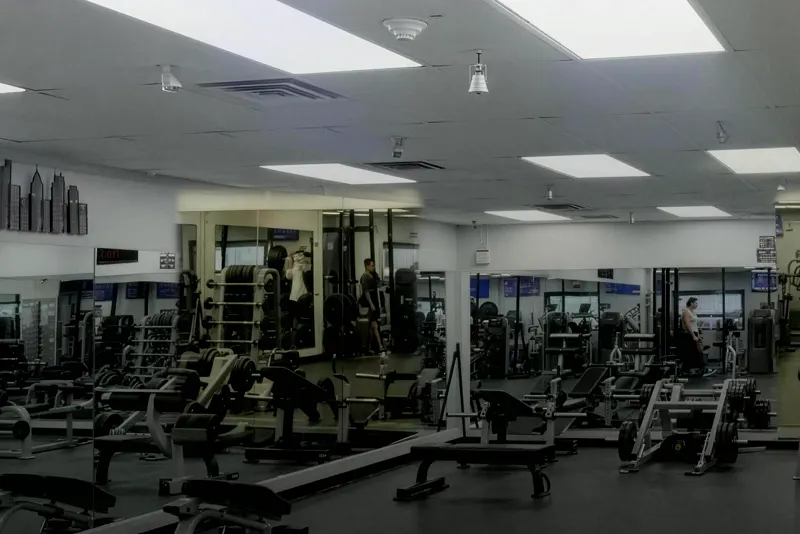
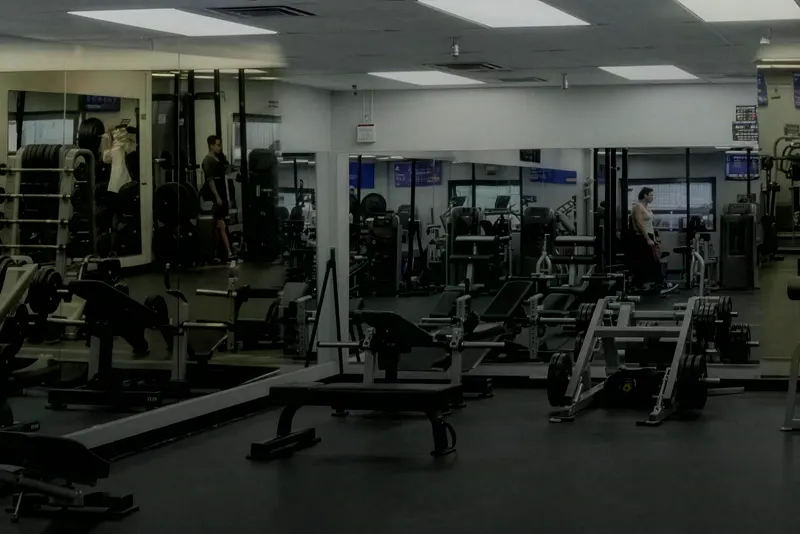
Replace the chapter 04 photo — the photographer was in a second mirror
The free-weight wide had him reflected in TWO mirrors, not one. Cropping
around the first put the second in frame. Four repair attempts on one
photograph is the signal to change photograph, so chapter 04 is now P004,
the dumbbell rack down the mirror wall — clean per the reflection sweep,
cropped 3:2 through its strongest band. P093 takes its place in the strip.

diff --git a/index.html b/index.html
@@ -18,7 +18,7 @@
 
 <meta property="og:description" content="Norman's neighborhood gym. Open every hour of every day. 1610 W Lindsey St · (405) 801-2929">
 
-<meta property="og:image" content="img/og.jpg?v=20260904d">
+<meta property="og:image" content="img/og.jpg?v=20260904e">
 
 <meta property="og:type" content="website">
 
@@ -42,11 +42,11 @@
 
 <link rel="stylesheet" href="https://fonts.googleapis.com/css2?family=Fjalla+One&family=Source+Sans+Pro:wght@400;600&display=swap">
 
-<link rel="stylesheet" href="css/site.css?v=20260904d">
+<link rel="stylesheet" href="css/site.css?v=20260904e">
 
-<link rel="preload" as="image" href="media/open_1920.webp?v=20260904d" fetchpriority="high" media="(min-width: 900px)">
+<link rel="preload" as="image" href="media/open_1920.webp?v=20260904e" fetchpriority="high" media="(min-width: 900px)">
 
-<link rel="preload" as="image" href="media/open_1280.webp?v=20260904d" fetchpriority="high" media="(max-width: 899px)">
+<link rel="preload" as="image" href="media/open_1280.webp?v=20260904e" fetchpriority="high" media="(max-width: 899px)">
 
 
 
@@ -202,7 +202,7 @@
 
   <video class="hero-video" id="hero" muted playsinline preload="metadata"
 
-         poster="media/poster.jpg?v=20260904d"
+         poster="media/poster.jpg?v=20260904e"
 
          disablepictureinpicture disableremoteplayback
 
@@ -210,9 +210,9 @@
 
     <!-- no-JS fallback selection; with JS the src is chosen below (media on <source> is not universal) -->
 
-    <source src="media/hero_960.mp4?v=20260904d" type="video/mp4" media="(max-width: 899px)">
+    <source src="media/hero_960.mp4?v=20260904e" type="video/mp4" media="(max-width: 899px)">
 
-    <source src="media/hero.mp4?v=20260904d" type="video/mp4">
+    <source src="media/hero.mp4?v=20260904e" type="video/mp4">
 
   </video>
 
@@ -228,7 +228,7 @@
 
       if (document.documentElement.classList.contains('static')) { v.preload = 'none'; }
 
-      v.src = (window.innerWidth < 900 ? 'media/hero_960.mp4' : 'media/hero.mp4') + '?v=20260904d';
+      v.src = (window.innerWidth < 900 ? 'media/hero_960.mp4' : 'media/hero.mp4') + '?v=20260904e';
 
     })();
 
@@ -246,9 +246,9 @@
 
     <picture>
 
-      <source media="(max-width: 899px)" srcset="media/open_1280.webp?v=20260904d">
+      <source media="(max-width: 899px)" srcset="media/open_1280.webp?v=20260904e">
 
-      <img id="preImg" src="media/open_1920.webp?v=20260904d" alt="" decoding="async" fetchpriority="high">
+      <img id="preImg" src="media/open_1920.webp?v=20260904e" alt="" decoding="async" fetchpriority="high">
 
     </picture>
 
@@ -423,7 +423,7 @@
 
   <article class="room room-img reveal-clip">
 
-    <figure class="room-fig"><img class="plx" src="img/g2/P082.webp?v=20260904d" srcset="img/g2/P082_s.webp?v=20260904d 800w, img/g2/P082.webp?v=20260904d 1600w"
+    <figure class="room-fig"><img class="plx" src="img/g2/P082.webp?v=20260904e" srcset="img/g2/P082_s.webp?v=20260904e 800w, img/g2/P082.webp?v=20260904e 1600w"
 
          sizes="(max-width: 899px) 100vw, 72vw" loading="lazy" decoding="async"
 
@@ -447,7 +447,7 @@
 
   <article class="room room-img reveal-clip">
 
-    <figure class="room-fig"><img class="plx" src="img/g2/P096.webp?v=20260904d" srcset="img/g2/P096_s.webp?v=20260904d 800w, img/g2/P096.webp?v=20260904d 1600w"
+    <figure class="room-fig"><img class="plx" src="img/g2/P096.webp?v=20260904e" srcset="img/g2/P096_s.webp?v=20260904e 800w, img/g2/P096.webp?v=20260904e 1600w"
 
          sizes="(max-width: 899px) 100vw, 72vw" loading="lazy" decoding="async"
 
@@ -475,7 +475,7 @@
 
   <article class="room room-img reveal-clip">
 
-    <figure class="room-fig"><img class="plx" src="img/g2/P002.webp?v=20260904d" srcset="img/g2/P002_s.webp?v=20260904d 800w, img/g2/P002.webp?v=20260904d 1600w"
+    <figure class="room-fig"><img class="plx" src="img/g2/P002.webp?v=20260904e" srcset="img/g2/P002_s.webp?v=20260904e 800w, img/g2/P002.webp?v=20260904e 1600w"
 
          sizes="(max-width: 899px) 100vw, 72vw" loading="lazy" decoding="async"
 
@@ -499,11 +499,11 @@
 
   <article class="room room-img reveal-clip">
 
-    <figure class="room-fig"><img class="plx" src="img/g2/N1.webp?v=20260904d" srcset="img/g2/N1_s.webp?v=20260904d 800w, img/g2/N1.webp?v=20260904d 1600w"
+    <figure class="room-fig"><img class="plx" src="img/g2/P004.webp?v=20260904e" srcset="img/g2/P004_s.webp?v=20260904e 800w, img/g2/P004.webp?v=20260904e 1600w"
 
          sizes="(max-width: 899px) 100vw, 72vw" loading="lazy" decoding="async"
 
-         alt="The free-weight room: benches, racks and the mirrored wall, moody and ready"></figure>
+         alt="A two-tier dumbbell rack running away down the full-height mirror wall"></figure>
 
     <div class="room-copy">
 
@@ -520,7 +520,7 @@
 
   <article class="room room-img room-dark reveal-clip">
 
-    <figure class="room-fig"><img class="plx" src="img/g2/P097.webp?v=20260904d" srcset="img/g2/P097_s.webp?v=20260904d 800w, img/g2/P097.webp?v=20260904d 1600w"
+    <figure class="room-fig"><img class="plx" src="img/g2/P097.webp?v=20260904e" srcset="img/g2/P097_s.webp?v=20260904e 800w, img/g2/P097.webp?v=20260904e 1600w"
 
          sizes="(max-width: 899px) 100vw, 72vw" loading="lazy" decoding="async"
 
@@ -595,7 +595,7 @@
   </div>
 
   <figure class="train-photo reveal" aria-hidden="true">
-    <img src="img/g2/N5.webp?v=20260904d" srcset="img/g2/N5_s.webp?v=20260904d 800w, img/g2/N5.webp?v=20260904d 1600w"
+    <img src="img/g2/N5.webp?v=20260904e" srcset="img/g2/N5_s.webp?v=20260904e 800w, img/g2/N5.webp?v=20260904e 1600w"
          sizes="(max-width: 899px) 100vw, 46vw" loading="lazy" decoding="async" alt="Three of the Downtown Fitness crew flexing at the front desk"></figure>
 
 </section>
@@ -615,14 +615,14 @@
   <h2 class="strip-title reveal">Around the&nbsp;gym.</h2>
 
   <div class="strip" tabindex="0" role="group" aria-label="Photo strip">
-    <img src="img/g2/N4.webp?v=20260904d" loading="lazy" decoding="async" alt="The red room: ellipticals, bikes and rowers against the red brick wall under two TVs">
-    <img src="img/g2/N6.webp?v=20260904d" loading="lazy" decoding="async" alt="Green, yellow and blue bumper plates on the rack, up close">
-    <img src="img/g2/P098.webp?v=20260904d" loading="lazy" decoding="async" alt="The locker room: cedar bench, lockers and the sauna door">
-    <img src="img/g2/P004.webp?v=20260904d" loading="lazy" decoding="async" alt="The dumbbell rack running away down the mirror wall">
-    <img src="img/g2/P095.webp?v=20260904d" loading="lazy" decoding="async" alt="The cardio row from the front, treadmills and ellipticals under mounted TVs">
-    <img src="img/g2/N5.webp?v=20260904d" loading="lazy" decoding="async" alt="Three of the Downtown Fitness crew at the front desk">
-    <img src="img/g2/P097.webp?v=20260904d" loading="lazy" decoding="async" alt="Inside the cedar sauna: warm timber benches and walls">
-    <img src="img/g2/P025.webp?v=20260904d" loading="lazy" decoding="async" alt="Hex dumbbells receding in a diagonal along the mirror">
+    <img src="img/g2/N4.webp?v=20260904e" loading="lazy" decoding="async" alt="The red room: ellipticals, bikes and rowers against the red brick wall under two TVs">
+    <img src="img/g2/N6.webp?v=20260904e" loading="lazy" decoding="async" alt="Green, yellow and blue bumper plates on the rack, up close">
+    <img src="img/g2/P098.webp?v=20260904e" loading="lazy" decoding="async" alt="The locker room: cedar bench, lockers and the sauna door">
+    <img src="img/g2/P093.webp?v=20260904e" loading="lazy" decoding="async" alt="The centre aisle of the machine floor, stations receding into the room">
+    <img src="img/g2/P095.webp?v=20260904e" loading="lazy" decoding="async" alt="The cardio row from the front, treadmills and ellipticals under mounted TVs">
+    <img src="img/g2/N5.webp?v=20260904e" loading="lazy" decoding="async" alt="Three of the Downtown Fitness crew at the front desk">
+    <img src="img/g2/P097.webp?v=20260904e" loading="lazy" decoding="async" alt="Inside the cedar sauna: warm timber benches and walls">
+    <img src="img/g2/P025.webp?v=20260904e" loading="lazy" decoding="async" alt="Hex dumbbells receding in a diagonal along the mirror">
   </div>
 
 </section>
@@ -693,7 +693,7 @@
 
       <p class="tagline reveal">
 
-        <img class="badge" src="img/logo.png?v=20260904d" width="250" height="108" alt="Downtown Fitness — On West Lindsey" loading="lazy">
+        <img class="badge" src="img/logo.png?v=20260904e" width="250" height="108" alt="Downtown Fitness — On West Lindsey" loading="lazy">
 
         <span>Kickstarting Healthy Lifestyles.</span>
 
@@ -717,7 +717,7 @@
 
 <footer class="foot">
 
-  <img class="badge badge-foot" src="img/logo.png?v=20260904d" width="250" height="108" alt="" loading="lazy">
+  <img class="badge badge-foot" src="img/logo.png?v=20260904e" width="250" height="108" alt="" loading="lazy">
 
   <p class="foot-line">Downtown Fitness <span aria-hidden="true">·</span> On West Lindsey <span aria-hidden="true">·</span> <a href="https://dfnorman.com" rel="noopener">dfnorman.com</a></p>
 
@@ -777,9 +777,9 @@
 
 <script defer src="https://cdn.jsdelivr.net/npm/lenis@1.1.18/dist/lenis.min.js"></script>
 
-<script defer src="js/film.js?v=20260904d"></script>
+<script defer src="js/film.js?v=20260904e"></script>
 
-<script defer src="js/sections.js?v=20260904d"></script>
+<script defer src="js/sections.js?v=20260904e"></script>
 
 </body>
 
